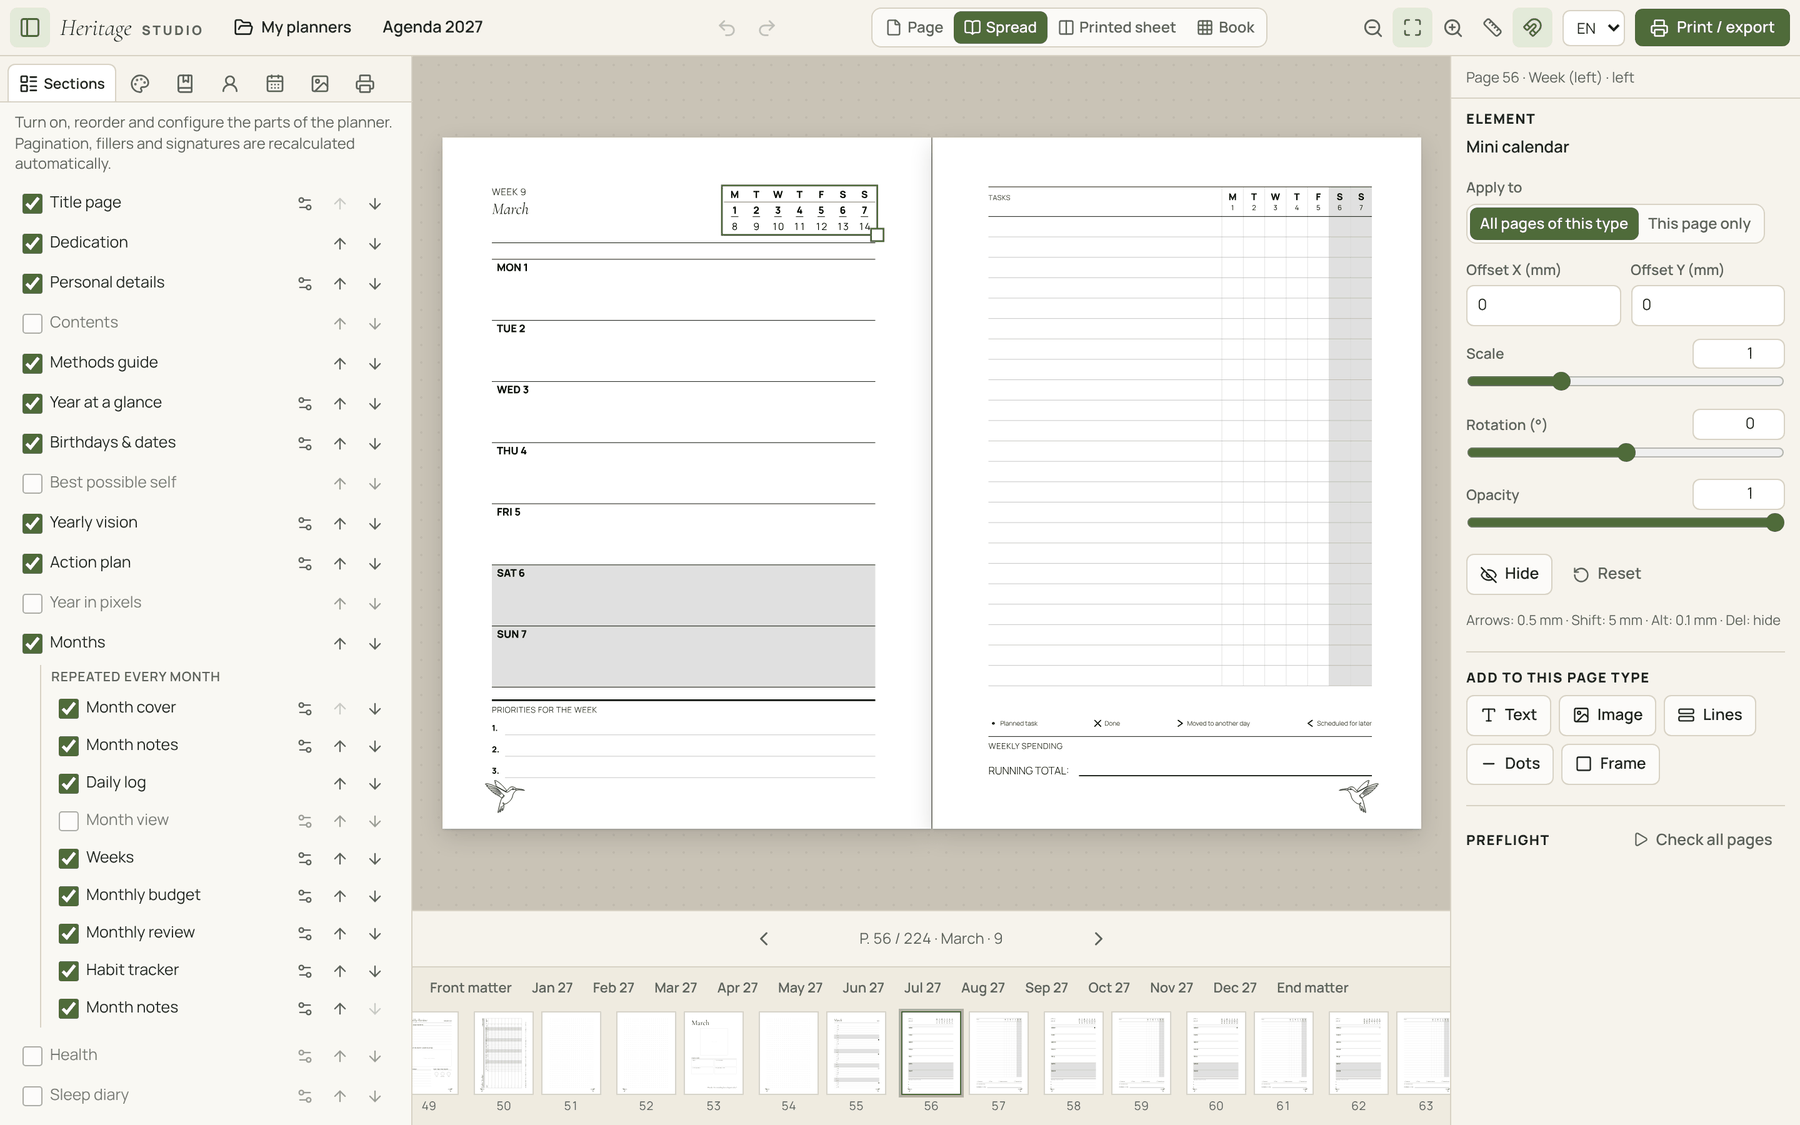
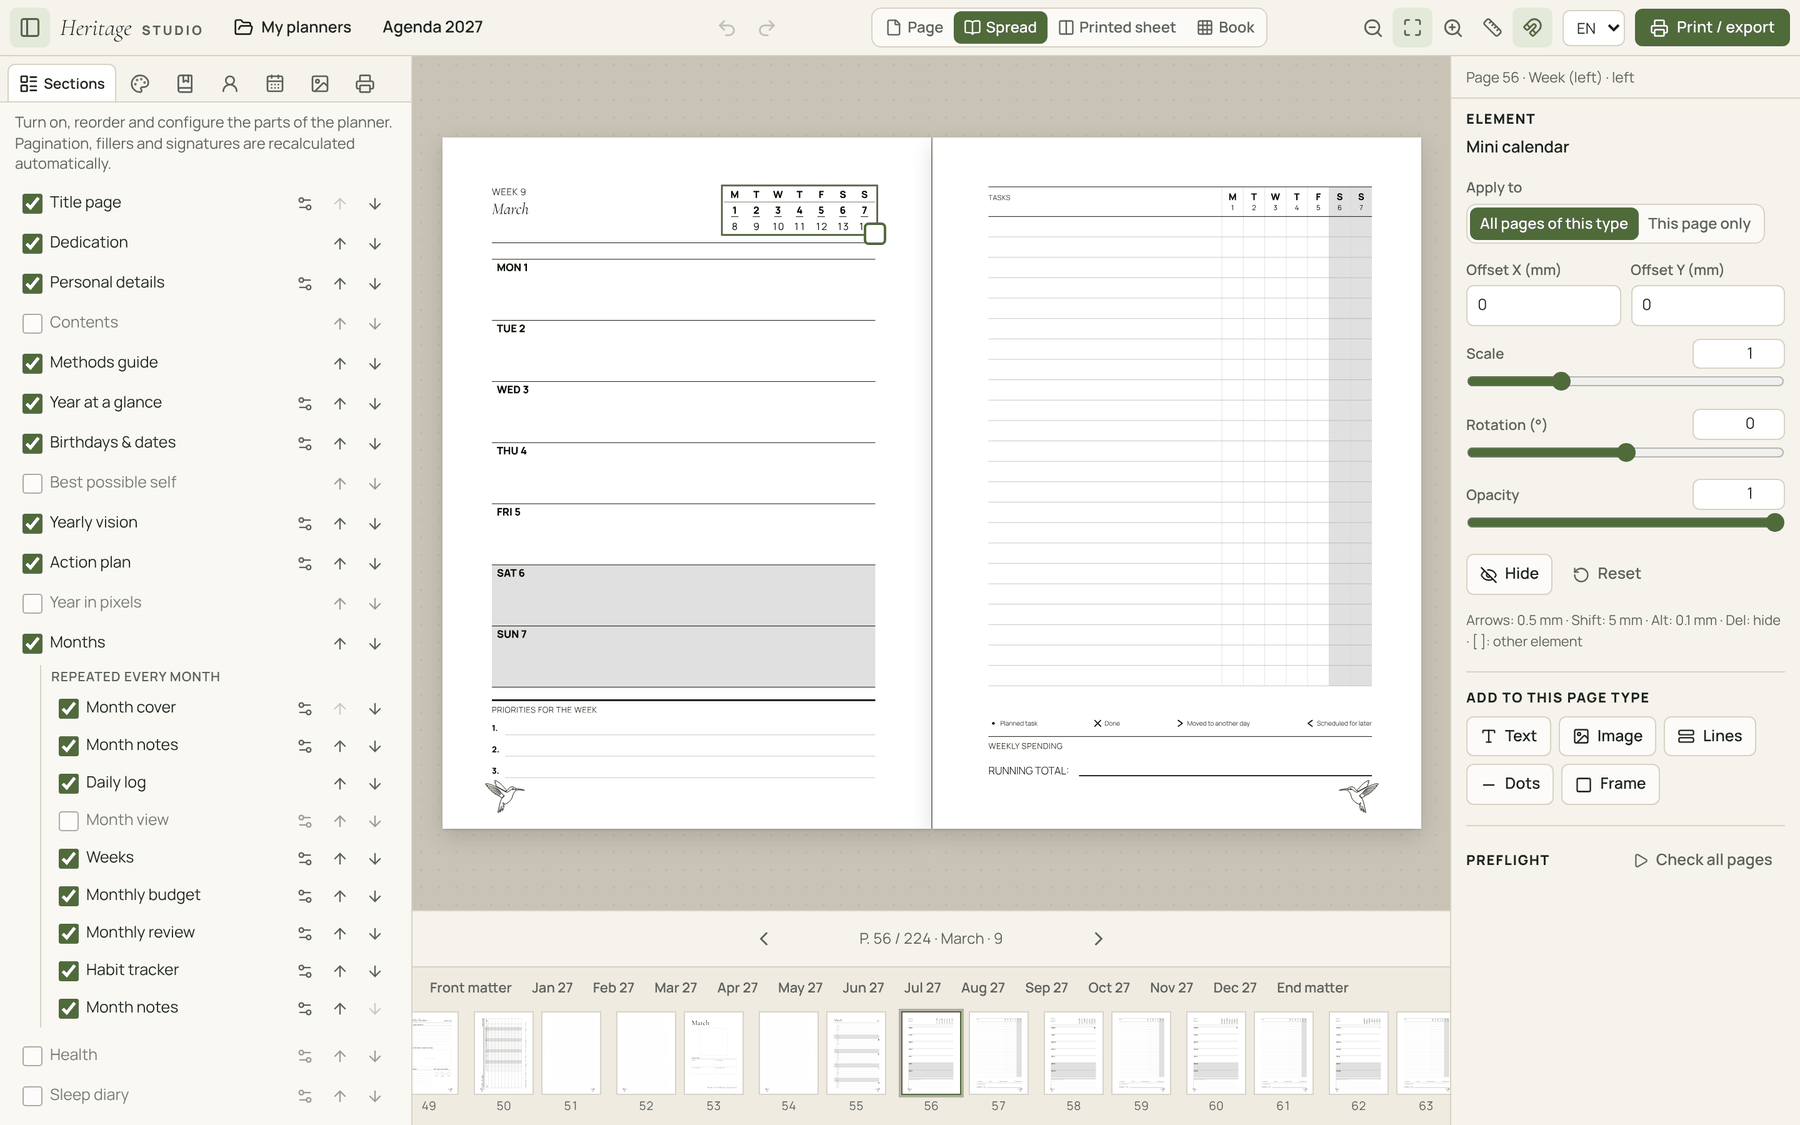
El editor valida toda agenda que recibe; botón del panel del elemento en teléfonos
- setDesign pasa la agenda por el esquema: completa los campos nuevos (como las
  páginas donde se ocultó una marca de agua) y ninguna página falla por un dato
  faltante.
- Agendas de ejemplo actualizadas al esquema actual.
- En pantallas angostas, el botón «Elemento» va arriba a la derecha del lienzo
  y ya no tapa las pestañas de los meses.
- Capturas del README actualizadas.

Changed region(s): [[0.8089, 0.56, 0.9956, 0.7778], [0.4667, 0.1867, 0.4978, 0.2178]]

diff --git a/src/app/App.tsx b/src/app/App.tsx
@@ -206,7 +206,16 @@ export function App() {
             <Sidebar />
           </div>
         )}
-        <main className="flex min-h-0 min-w-0 flex-1 flex-col">
+        <main className="relative flex min-h-0 min-w-0 flex-1 flex-col">
+          {doc && !large && !sheetOpen && (
+            <button
+              type="button"
+              className="absolute top-3 right-3 z-20 flex items-center gap-1.5 rounded-full bg-accent px-3 py-1.5 text-[12px] font-semibold text-white shadow-lg"
+              onClick={() => setSheetOpen(true)}
+            >
+              <SlidersHorizontal size={15} /> {t('insp.open')}
+            </button>
+          )}
           {updateReady && (
             <div role="status" className="flex items-center gap-2 border-b border-line bg-accent-soft px-3 py-1.5 text-[12px] text-ink">
               <span className="min-w-0 flex-1">{t('notice.updated')}</span>
@@ -256,15 +265,6 @@ export function App() {
               <Inspector doc={doc} />
             </div>
           </div>
-        )}
-        {doc && !large && !sheetOpen && (
-          <button
-            type="button"
-            className="fixed right-3 bottom-24 z-30 flex items-center gap-1.5 rounded-full bg-accent px-3 py-2 text-[12px] font-semibold text-white shadow-lg"
-            onClick={() => setSheetOpen(true)}
-          >
-            <SlidersHorizontal size={15} /> {t('insp.open')}
-          </button>
         )}
       </div>
       {showWelcome && <WelcomeDialog />}

diff --git a/src/app/state/store.ts b/src/app/state/store.ts
@@ -3,7 +3,7 @@
  * deshacer/rehacer, vista, selección y preferencias de la interfaz. El diseño
  * se guarda solo en IndexedDB (con demora) en cada cambio.
  */
-import type { Design } from '@core/design/schema';
+import { parseDesign, type Design } from '@core/design/schema';
 import { produce, type Draft } from 'immer';
 import { create } from 'zustand';
 import { saveDesign } from './persist';
@@ -143,7 +143,10 @@ export const useStore = create<StoreState>((set, get) => ({
   goToKey: null,
   updateReady: false,
 
-  setDesign(d, opts) {
+  setDesign(input, opts) {
+    // Toda agenda que entra al editor pasa por el esquema: completa los campos que agregan las
+    // versiones nuevas y acomoda valores viejos (así ninguna página falla por un dato faltante).
+    const d = parseDesign(input);
     set((s) => ({
       design: d,
       past: opts?.keepHistory ? s.past : [],
